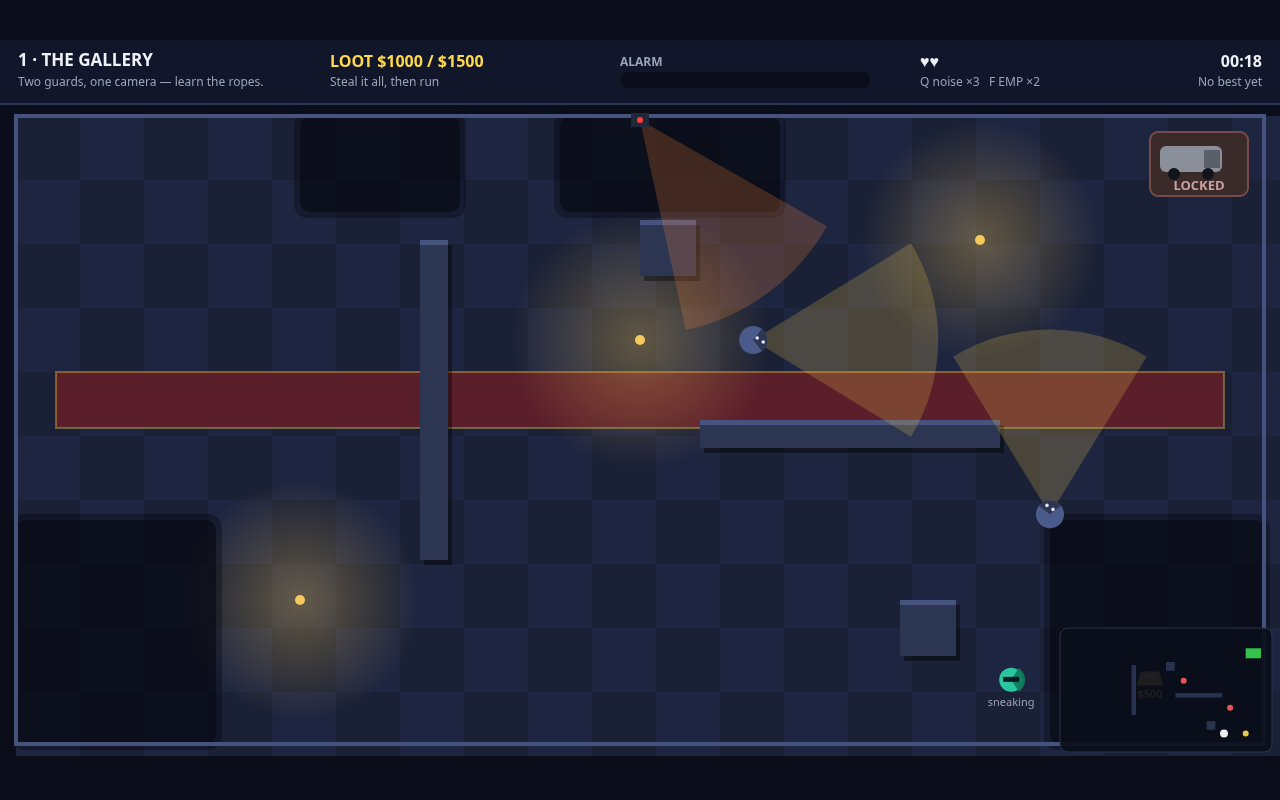
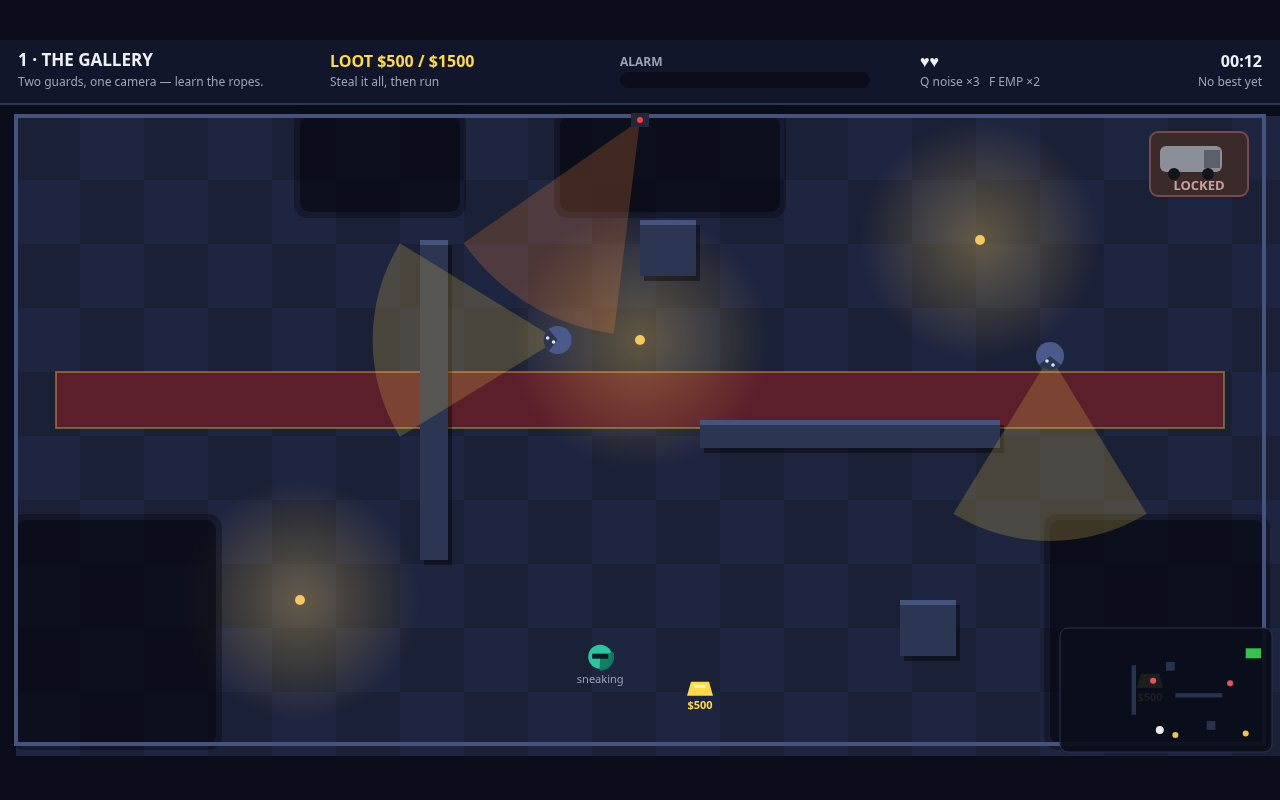
VAULTBREAK v2: all 3 levels proven winnable by autoplay (9/9), HUD/shot polish

diff --git a/game/src/autoplay.js b/game/src/autoplay.js
@@ -8,7 +8,7 @@
 // player standing there would see.
 
 import { ROOM } from './config.js';
-import { dist, inCone, pointInRect } from './geom.js';
+import { clamp, dist, inCone, pointInRect } from './geom.js';
 import { GUARD } from './config.js';
 import { CAMERA, DOG } from './config.js';
 import { laserIsOn, isLockpickLoot } from './loot.js';
@@ -29,6 +29,10 @@ export function createAutopilot(world) {
     stuckTimer: 0,
     lastNoiseAt: -100,
     lastEmpAt: -100,
+    // After a lockpick is broken off, the pilot waits out the heat before
+    // trying again — suspicion only decays 0.25/s, so immediate retries
+    // stack it up until a guard goes alerted.
+    lockpickCooldownUntil: 0,
   };
 
   function cellBlocked(cx, cy) {
@@ -117,10 +121,21 @@ export function createAutopilot(world) {
     return null;
   }
 
+  /** Distance from a point to a segment (for patrol-lane checks). */
+  function distToSegment(px, py, x1, y1, x2, y2) {
+    const dx = x2 - x1;
+    const dy = y2 - y1;
+    const len2 = dx * dx + dy * dy;
+    let t = len2 === 0 ? 0 : ((px - x1) * dx + (py - y1) * dy) / len2;
+    t = Math.max(0, Math.min(1, t));
+    return Math.hypot(px - (x1 + t * dx), py - (y1 + t * dy));
+  }
+
   /**
    * The nearest shadow that is safe to hide in right now: its centre is
-   * outside every cone and laser, and no guard or dog is close to it. A
-   * shadow on a patrol lane is a trap, not a refuge.
+   * outside every cone and laser, no guard or dog is close to it, and it
+   * does not sit on a patrol lane — a shadow above a lane is a trap, not
+   * a refuge, because the patrolling guard's cone sweeps straight through it.
    */
   function nearestSafeShadow(x, y) {
     let best = null;
@@ -132,8 +147,23 @@ export function createAutopilot(world) {
       let close = false;
       for (const g of world.state.guards) {
         if (dist(g.x, g.y, cx, cy) < 110) { close = true; break; }
+        const wps = g.waypoints;
+        for (let i = 0; i < wps.length; i += 1) {
+          const a = wps[i];
+          const b = wps[(i + 1) % wps.length];
+          if (distToSegment(cx, cy, a.x, a.y, b.x, b.y) < 110) { close = true; break; }
+        }
+        if (close) break;
       }
-      if (!close && world.state.dog && dist(world.state.dog.x, world.state.dog.y, cx, cy) < 110) close = true;
+      if (!close && world.state.dog) {
+        const wps = world.state.dog.waypoints;
+        for (let i = 0; i < wps.length; i += 1) {
+          const a = wps[i];
+          const b = wps[(i + 1) % wps.length];
+          if (distToSegment(cx, cy, a.x, a.y, b.x, b.y) < 110) { close = true; break; }
+        }
+        if (dist(world.state.dog.x, world.state.dog.y, cx, cy) < 110) close = true;
+      }
       if (close) continue;
       const d = dist(x, y, cx, cy);
       if (d < bestD) {
@@ -192,10 +222,31 @@ export function createAutopilot(world) {
 
   function fleeCmd(threat) {
     const p = world.state.player;
-    const dx = p.x - threat.x;
-    const dy = p.y - threat.y;
+    let dx = p.x - threat.x;
+    let dy = p.y - threat.y;
     const len = Math.hypot(dx, dy) || 1;
-    return { steer: { x: dx / len, y: dy / len }, sneak: false, interact: false, noiseAt: null, emp: false };
+    dx /= len;
+    dy /= len;
+    // Don't run into a corner: near an edge, blend the escape toward the
+    // middle of the room so a chase has somewhere to go.
+    const nearEdge =
+      p.x < ROOM.x + 90 || p.x > ROOM.x + ROOM.width - 90 || p.y < ROOM.y + 90 || p.y > ROOM.y + ROOM.height - 90;
+    if (nearEdge) {
+      dx = dx * 0.6 + ((640 - p.x) / 640) * 0.6;
+      dy = dy * 0.6 + ((390 - p.y) / 390) * 0.6;
+      const l = Math.hypot(dx, dy) || 1;
+      dx /= l;
+      dy /= l;
+    }
+    return { steer: { x: dx, y: dy }, sneak: false, interact: false, noiseAt: null, emp: false };
+  }
+
+  /** The shadow rect the point is inside, or null. */
+  function shadowAt(x, y) {
+    for (const s of world.state.level.shadows) {
+      if (pointInRect(x, y, s)) return s;
+    }
+    return null;
   }
 
   function decide(dt) {
@@ -205,6 +256,48 @@ export function createAutopilot(world) {
     const target = pickTarget();
     state.target = target;
 
+    // Cooling off after a broken lockpick: hide until the guards' suspicion
+    // has decayed, instead of walking straight back into the same cone.
+    if (target.loot && isLockpickLoot(target.loot.kind) && now < state.lockpickCooldownUntil) {
+      state.lastDecision = 'cooling-off';
+      const sh = nearestSafeShadow(p.x, p.y);
+      if (sh && dist(p.x, p.y, sh.x, sh.y) > 30) {
+        const dir = dirTo(sh.x, sh.y);
+        return { steer: { x: dir.x, y: dir.y }, sneak: true, interact: false, noiseAt: null, emp: false };
+      }
+      return { steer: { x: 0, y: 0 }, sneak: true, interact: false, noiseAt: null, emp: false };
+    }
+
+    // Lure a guard away from a lockpick target before starting the pick:
+    // throw a noise 300px west of the nearest guard, so it walks off to
+    // investigate while the 4-second pick runs. Only when no guard is
+    // already alerted — an alerted guard ignores noises and chases.
+    if (target.loot && isLockpickLoot(target.loot.kind) && w.noiseCharges > 0 && now - state.lastNoiseAt > 10) {
+      const d = dist(p.x, p.y, target.loot.x, target.loot.y);
+      if (d < 170) {
+        let near = null;
+        let nd = Infinity;
+        let alertedNear = false;
+        for (const g of w.guards) {
+          const gd = dist(g.x, g.y, target.loot.x, target.loot.y);
+          if (gd < nd) {
+            nd = gd;
+            near = g;
+          }
+          if (gd < 260 && g.state === 'alerted') alertedNear = true;
+        }
+        if (near && nd < 260 && !alertedNear) {
+          const lx = clamp(near.x - 300, ROOM.x + 20, ROOM.x + ROOM.width - 20);
+          const ly = clamp(near.y, ROOM.y + 20, ROOM.y + ROOM.height - 20);
+          if (dist(lx, ly, target.loot.x, target.loot.y) > 250) {
+            state.lastNoiseAt = now;
+            state.lastDecision = 'lure-before-pick';
+            return { steer: { x: 0, y: 0 }, sneak: true, interact: false, noiseAt: { x: lx, y: ly }, emp: false };
+          }
+        }
+      }
+    }
+
     // Lockpicking: stand still on the safe or vault and hold E — unless a
     // cone is on us, in which case break off and come back later.
     if (target.loot && isLockpickLoot(target.loot.kind)) {
@@ -212,8 +305,9 @@ export function createAutopilot(world) {
       if (d < 40) {
         if (dangerAt(p.x, p.y)) {
           state.lastDecision = 'break-off-lockpick';
+          state.lockpickCooldownUntil = now + 5;
           const { threat, dist: td } = nearestThreat(p.x, p.y);
-          if (threat && td < 85) return fleeCmd(threat);
+          if (threat && td < 120) return fleeCmd(threat);
           const sh = nearestSafeShadow(p.x, p.y);
           if (sh) {
             const dir = dirTo(sh.x, sh.y);
@@ -226,12 +320,13 @@ export function createAutopilot(world) {
       }
     }
 
-    // Being watched right now: get out of the cone. A guard right on top
-    // of us means run, not hide; otherwise retreat to a safe shadow.
+    // Being watched right now: get out of the cone. A guard that is already
+    // suspicious or alerted and close by means run at full speed — sneaking
+    // (98) cannot outrun a suspicious guard (105) or a chase (152).
     const here = dangerAt(p.x, p.y);
     if (here) {
       const { threat, dist: td } = nearestThreat(p.x, p.y);
-      if (threat && td < 85) {
+      if (threat && td < 120) {
         state.lastDecision = 'flee';
         return fleeCmd(threat);
       }
@@ -241,15 +336,43 @@ export function createAutopilot(world) {
         const dir = dirTo(sh.x, sh.y);
         return { steer: { x: dir.x, y: dir.y }, sneak: true, interact: false, noiseAt: null, emp: false };
       }
-      if (sh) {
-        state.lastDecision = 'hold-in-shadow';
-        return { steer: { x: 0, y: 0 }, sneak: true, interact: false, noiseAt: null, emp: false };
-      }
-      if (threat) {
-        state.lastDecision = 'flee-no-shadow';
-        return fleeCmd(threat);
+      // Already in a shadow but still seen: slide sideways out of the
+      // cone instead of holding still — holding still is how suspicion
+      // finishes building. Slide perpendicular to the guard's line of
+      // sight, toward the nearest safe shadow (or the room's middle).
+      {
+        const { threat } = nearestThreat(p.x, p.y);
+        if (threat) {
+          const dx = p.x - threat.x;
+          const dy = p.y - threat.y;
+          const len = Math.hypot(dx, dy) || 1;
+          const ref = nearestSafeShadow(p.x, p.y) ?? { x: 640, y: 390 };
+          const side = (-dy / len) * (ref.x - p.x) + (dx / len) * (ref.y - p.y) >= 0 ? 1 : -1;
+          state.lastDecision = 'slide-out-of-cone';
+          return {
+            steer: { x: (-dy / len) * side, y: (dx / len) * side },
+            sneak: true, interact: false, noiseAt: null, emp: false,
+          };
+        }
       }
       return { steer: { x: 0, y: 0 }, sneak: true, interact: false, noiseAt: null, emp: false };
+    }
+
+    // A guard that is already onto us and closing in: run now, even if we
+    // are not inside a cone this exact frame.
+    {
+      let hunter = null;
+      let hd = Infinity;
+      for (const g of w.guards) {
+        if ((g.state === 'alerted' || (g.state === 'suspicious' && g.suspicion > 0.4)) && dist(p.x, p.y, g.x, g.y) < hd) {
+          hd = dist(p.x, p.y, g.x, g.y);
+          hunter = g;
+        }
+      }
+      if (hunter && hd < 220) {
+        state.lastDecision = 'flee-hunter';
+        return fleeCmd(hunter);
+      }
     }
 
     // Route to the target along the planned path, replanning when the
@@ -279,15 +402,27 @@ export function createAutopilot(world) {
       return { steer: { x: dir.x, y: dir.y }, sneak: true, interact: false, noiseAt: null, emp: false };
     }
 
-    // Is the next step dangerous? Wait for the patrol to pass.
+    // Is the next step dangerous? Check two steps ahead — a patrol lane is
+    // crossed in about a second, and a cone that is clear at 48px can be
+    // on you by the time you get there. Wait for the patrol to pass.
     const probeX = p.x + dir.x * 48;
     const probeY = p.y + dir.y * 48;
-    const threat = dangerAt(probeX, probeY);
+    const threat = dangerAt(probeX, probeY) || dangerAt(p.x + dir.x * 96, p.y + dir.y * 96);
     if (threat) {
       state.lastDecision = `wait-${threat}`;
       // Don't wait in the open: slip into a nearby shadow while the
-      // patrol passes, so the alarm drains instead of building.
-      if (!world.inShadow(p.x, p.y)) {
+      // patrol passes, so the alarm drains instead of building. Inside
+      // a shadow, drift to its centre — the edges are where cones reach.
+      const here = shadowAt(p.x, p.y);
+      if (here) {
+        const cx = here.x + here.w / 2;
+        const cy = here.y + here.h / 2;
+        if (dist(p.x, p.y, cx, cy) > 25) {
+          const sdir = dirTo(cx, cy);
+          state.lastDecision = 'wait-shadow-centre';
+          return { steer: { x: sdir.x, y: sdir.y }, sneak: true, interact: false, noiseAt: null, emp: false };
+        }
+      } else {
         const sh = nearestSafeShadow(p.x, p.y);
         if (sh && dist(p.x, p.y, sh.x, sh.y) < 170) {
           const sdir = dirTo(sh.x, sh.y);

diff --git a/game/src/levels.js b/game/src/levels.js
@@ -86,7 +86,7 @@ export const LEVELS = [
       { kind: 'gold', x: 220, y: 640, value: 500 },
       { kind: 'gold', x: 1180, y: 620, value: 500 },
       { kind: 'gem', x: 620, y: 130, value: 1000 },
-      { kind: 'safe', x: 700, y: 500, value: 1000 },
+      { kind: 'safe', x: 200, y: 300, value: 1000 },
       { kind: 'gem', x: 850, y: 420, value: 1000 },
     ],
     lasers: [],
@@ -119,9 +119,9 @@ export const LEVELS = [
     ],
     guards: [
       { waypoints: [{ x: 380, y: 200 }, { x: 600, y: 200 }], pause: 1.0 },
-      { waypoints: [{ x: 1020, y: 200 }, { x: 1020, y: 600 }], pause: 1.2 },
+      { waypoints: [{ x: 1020, y: 350 }, { x: 1020, y: 600 }], pause: 1.2 },
       { waypoints: [{ x: 380, y: 560 }, { x: 600, y: 560 }], pause: 1.1 },
-      { waypoints: [{ x: 1150, y: 200 }, { x: 1150, y: 500 }], pause: 1.4 },
+      { waypoints: [{ x: 1120, y: 200 }, { x: 1120, y: 400 }], pause: 1.4 },
     ],
     cameras: [
       { x: 480, y: 80, baseAngle: Math.PI / 2, sweep: 0.6, speed: 0.6 },
@@ -132,7 +132,7 @@ export const LEVELS = [
       { kind: 'gold', x: 120, y: 150, value: 500 },
       { kind: 'gold', x: 120, y: 640, value: 500 },
       { kind: 'gem', x: 520, y: 640, value: 1000 },
-      { kind: 'vault', x: 1180, y: 360, value: 2500 },
+      { kind: 'vault', x: 1220, y: 360, value: 2500 },
     ],
     // Three beams across the middle corridor, blinking in turn: cross
     // while your beam is dark. The top and bottom lanes stay open.

diff --git a/game/src/render.js b/game/src/render.js
@@ -433,7 +433,7 @@ export function createRenderer(canvas) {
     if (world.alarm.value >= 55) {
       ctx.fillStyle = '#ff5a5a';
       ctx.font = `bold 13px ${FONT}`;
-      ctx.fillText('SPOTTED!', ax + aw + 12, ay + 29);
+      ctx.fillText('SPOTTED!', ax, ay + 48);
     }
 
     // Hearts, tools, timer.
@@ -510,7 +510,7 @@ export function createRenderer(canvas) {
     ctx.fillStyle = 'rgba(5,7,15,0.72)';
     ctx.fillRect(0, 0, FIELD.width, FIELD.height);
     ctx.fillStyle = PALETTE.hud;
-    rr(FIELD.width / 2 - 330, 150, 660, 420, 14);
+    rr(FIELD.width / 2 - 330, 140, 660, 450, 14);
     ctx.fill();
     ctx.strokeStyle = accent;
     ctx.lineWidth = 2;
@@ -518,10 +518,10 @@ export function createRenderer(canvas) {
     ctx.textAlign = 'center';
     ctx.fillStyle = accent;
     ctx.font = `bold 44px ${FONT}`;
-    ctx.fillText(title, FIELD.width / 2, 220);
+    ctx.fillText(title, FIELD.width / 2, 212);
     ctx.fillStyle = PALETTE.text;
     ctx.font = `17px ${FONT}`;
-    let y = 268;
+    let y = 260;
     for (const line of lines) {
       ctx.fillText(line, FIELD.width / 2, y);
       y += 30;

diff --git a/game/src/shots.js b/game/src/shots.js
@@ -6,8 +6,9 @@
 import { STEP } from './config.js';
 import { SCREEN_TITLE, SCREEN_PLAY, SCREEN_CLEAR } from './render.js';
 import { createAutopilot } from './autoplay.js';
+import { formatTime } from './alarm.js';
 
-const PLAY_SECONDS = 18;
+const PLAY_SECONDS = 12;
 const WIN_LIMIT_SECONDS = 240;
 
 /** Run the autopilot for `seconds` of game time (or until the level ends). */
@@ -59,7 +60,7 @@ export function stageShot(name, world) {
       clear: {
         levelName: world.state.level.name,
         loot: world.state.lootValue,
-        time: world.state.timer,
+        time: formatTime(world.state.timer),
         rank: world.rank(),
         best: null,
         finale: false,
